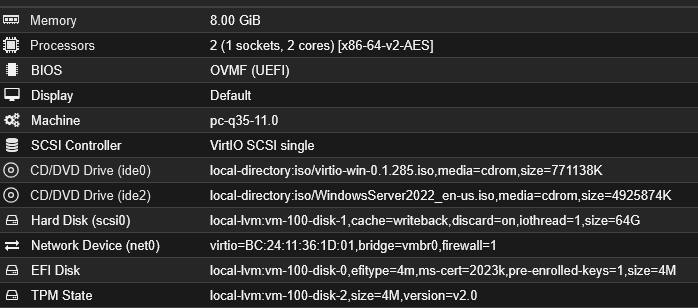
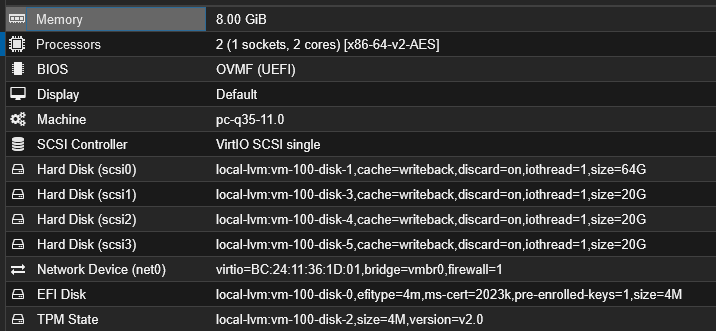
Update the windows server hardware configuiration

Changed region(s): [[0.0, 0.0, 1.0, 1.0]]

diff --git a/02-proxmoxve/README.md b/02-proxmoxve/README.md
@@ -27,7 +27,7 @@ This section covers the deployment, configuration, and issues related to Proxmox
 - **DNS server:** 192.168.254.1
 - **Gateway:** 192.168.254.1
 
-#### Update sources (only no-subscription)
+#### Update sources (no-subscription sources)
 
 * http://deb.debian.org/debian/
 * http://security.debian.org/debian-security/

diff --git a/03-windowsserver2022/README.md b/03-windowsserver2022/README.md
@@ -12,8 +12,6 @@ This section presents the configuration of Windows Server 2022 with all services
 * **IPv4 address:** 192.168.254.10
 * **IPv6:** Disabled
 
-
-
 ## Virtual Hardware Configuration
 
 ![Virtual Hardware](./screenshots/hardware.png)